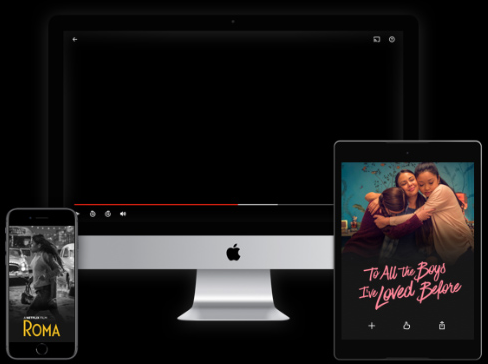
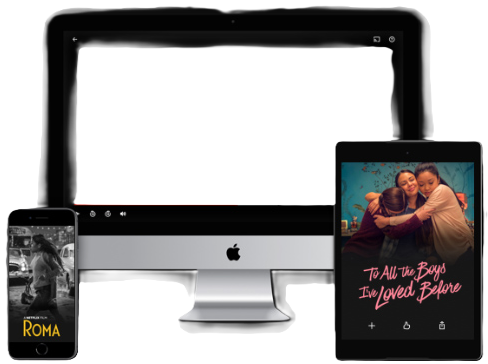
added third section

diff --git a/style.css b/style.css
@@ -138,7 +138,7 @@ nav > div > button:hover{
     height: 5px;
 }
 
-
+/* first_section */
 .first_section{
     display: flex;
     justify-content: center;
@@ -154,12 +154,12 @@ nav > div > button:hover{
     display: flex;
     flex-direction: column;
 }
-.first_section > div :first-child, .second_section > div :first-child{
+.first_section > div :first-child, .second_section > div :first-child, .third > div :first-child{
     font-size: 42px;
     font-weight: 900;
     font-family: 'Poppins', sans-serif;
 }
-.first_section > div :nth-child(2), .second_section > div :nth-child(2){
+.first_section > div :nth-child(2), .second_section > div :nth-child(2), .third > div :nth-child(2){
     font-family: 'Poppins', sans-serif;
     font-size: 24px;
     line-height: 35px;
@@ -182,6 +182,7 @@ nav > div > button:hover{
     width: 406px;
 }
 
+/* second_section */
 .second_section{
     color: white;
     display: flex;
@@ -191,13 +192,40 @@ nav > div > button:hover{
     margin: auto;
     padding: 50px 0px 50px 0px;
 }
-
 .second_section img{
     width: 450px;
 }
-
 .second_section :nth-child(2){
     display: flex;
     flex-direction: column;
 }
 
+/* third */
+.third{
+    color: white;
+    display: flex;
+    justify-content: center;
+    align-items: center;
+    width: 60vw;
+    gap: 70px;
+    margin: auto;
+    padding: 50px 0px 50px 0px;
+}
+.third :nth-child(1){
+    display: flex;
+    flex-direction: row;
+    position: relative;
+}
+.third :nth-child(1) > video{
+    position: absolute;
+    top: 25px;
+    left: 68px;
+    width: 340px;
+}
+.third :nth-child(1) > img{
+    position: relative;
+}
+.third :nth-child(2){
+    display: flex;
+    flex-direction: column;
+}

diff --git a/index.html b/index.html
@@ -54,6 +54,18 @@
         </div>
     </section>
     <div class="separation"></div>
+
+    <div class="third">
+        <div>
+            <video src="assets/video1.m4v" autoplay loop muted></video>
+            <img src="assets/apple_pc.png" alt="">
+        </div>
+        <div>
+            <span>Watch everywhere.</span>
+            <span>stream Unlimited movies and TV shows on your phone, tablet, laptop, and TV without paying more.</span>
+        </div>
+    </div>
+    <div class="separation"></div>
     
 </body>
 </html>
